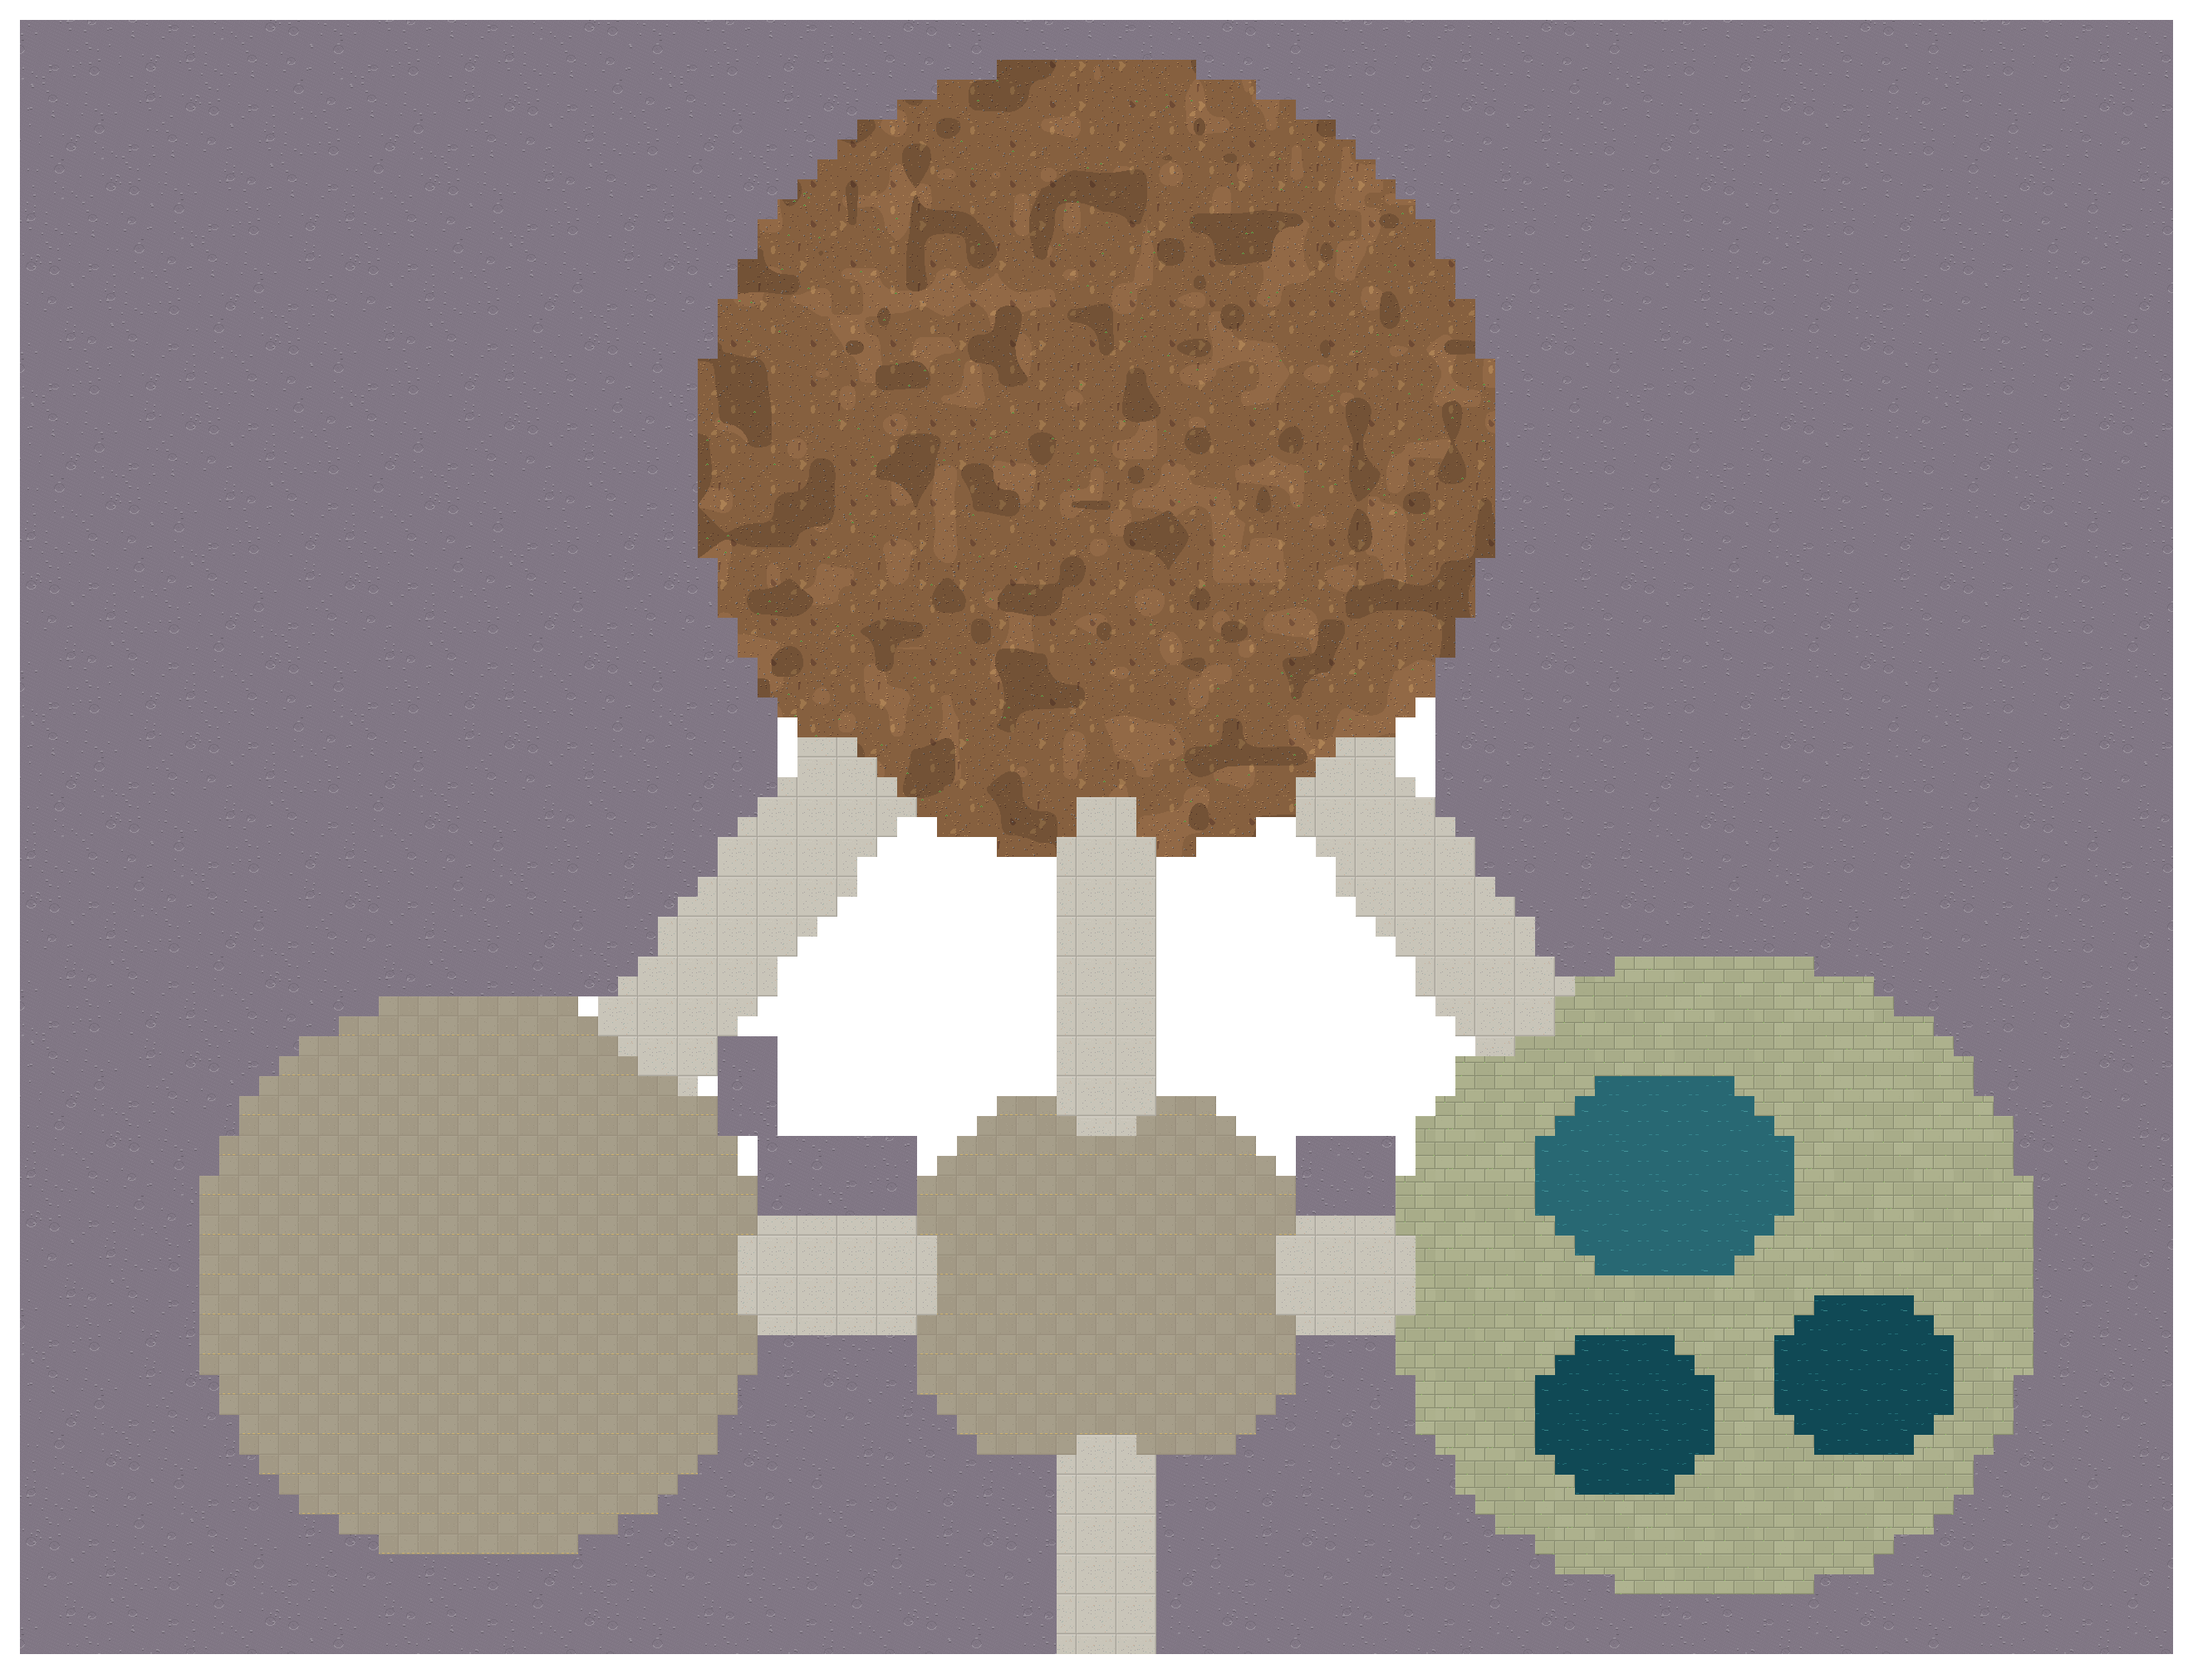
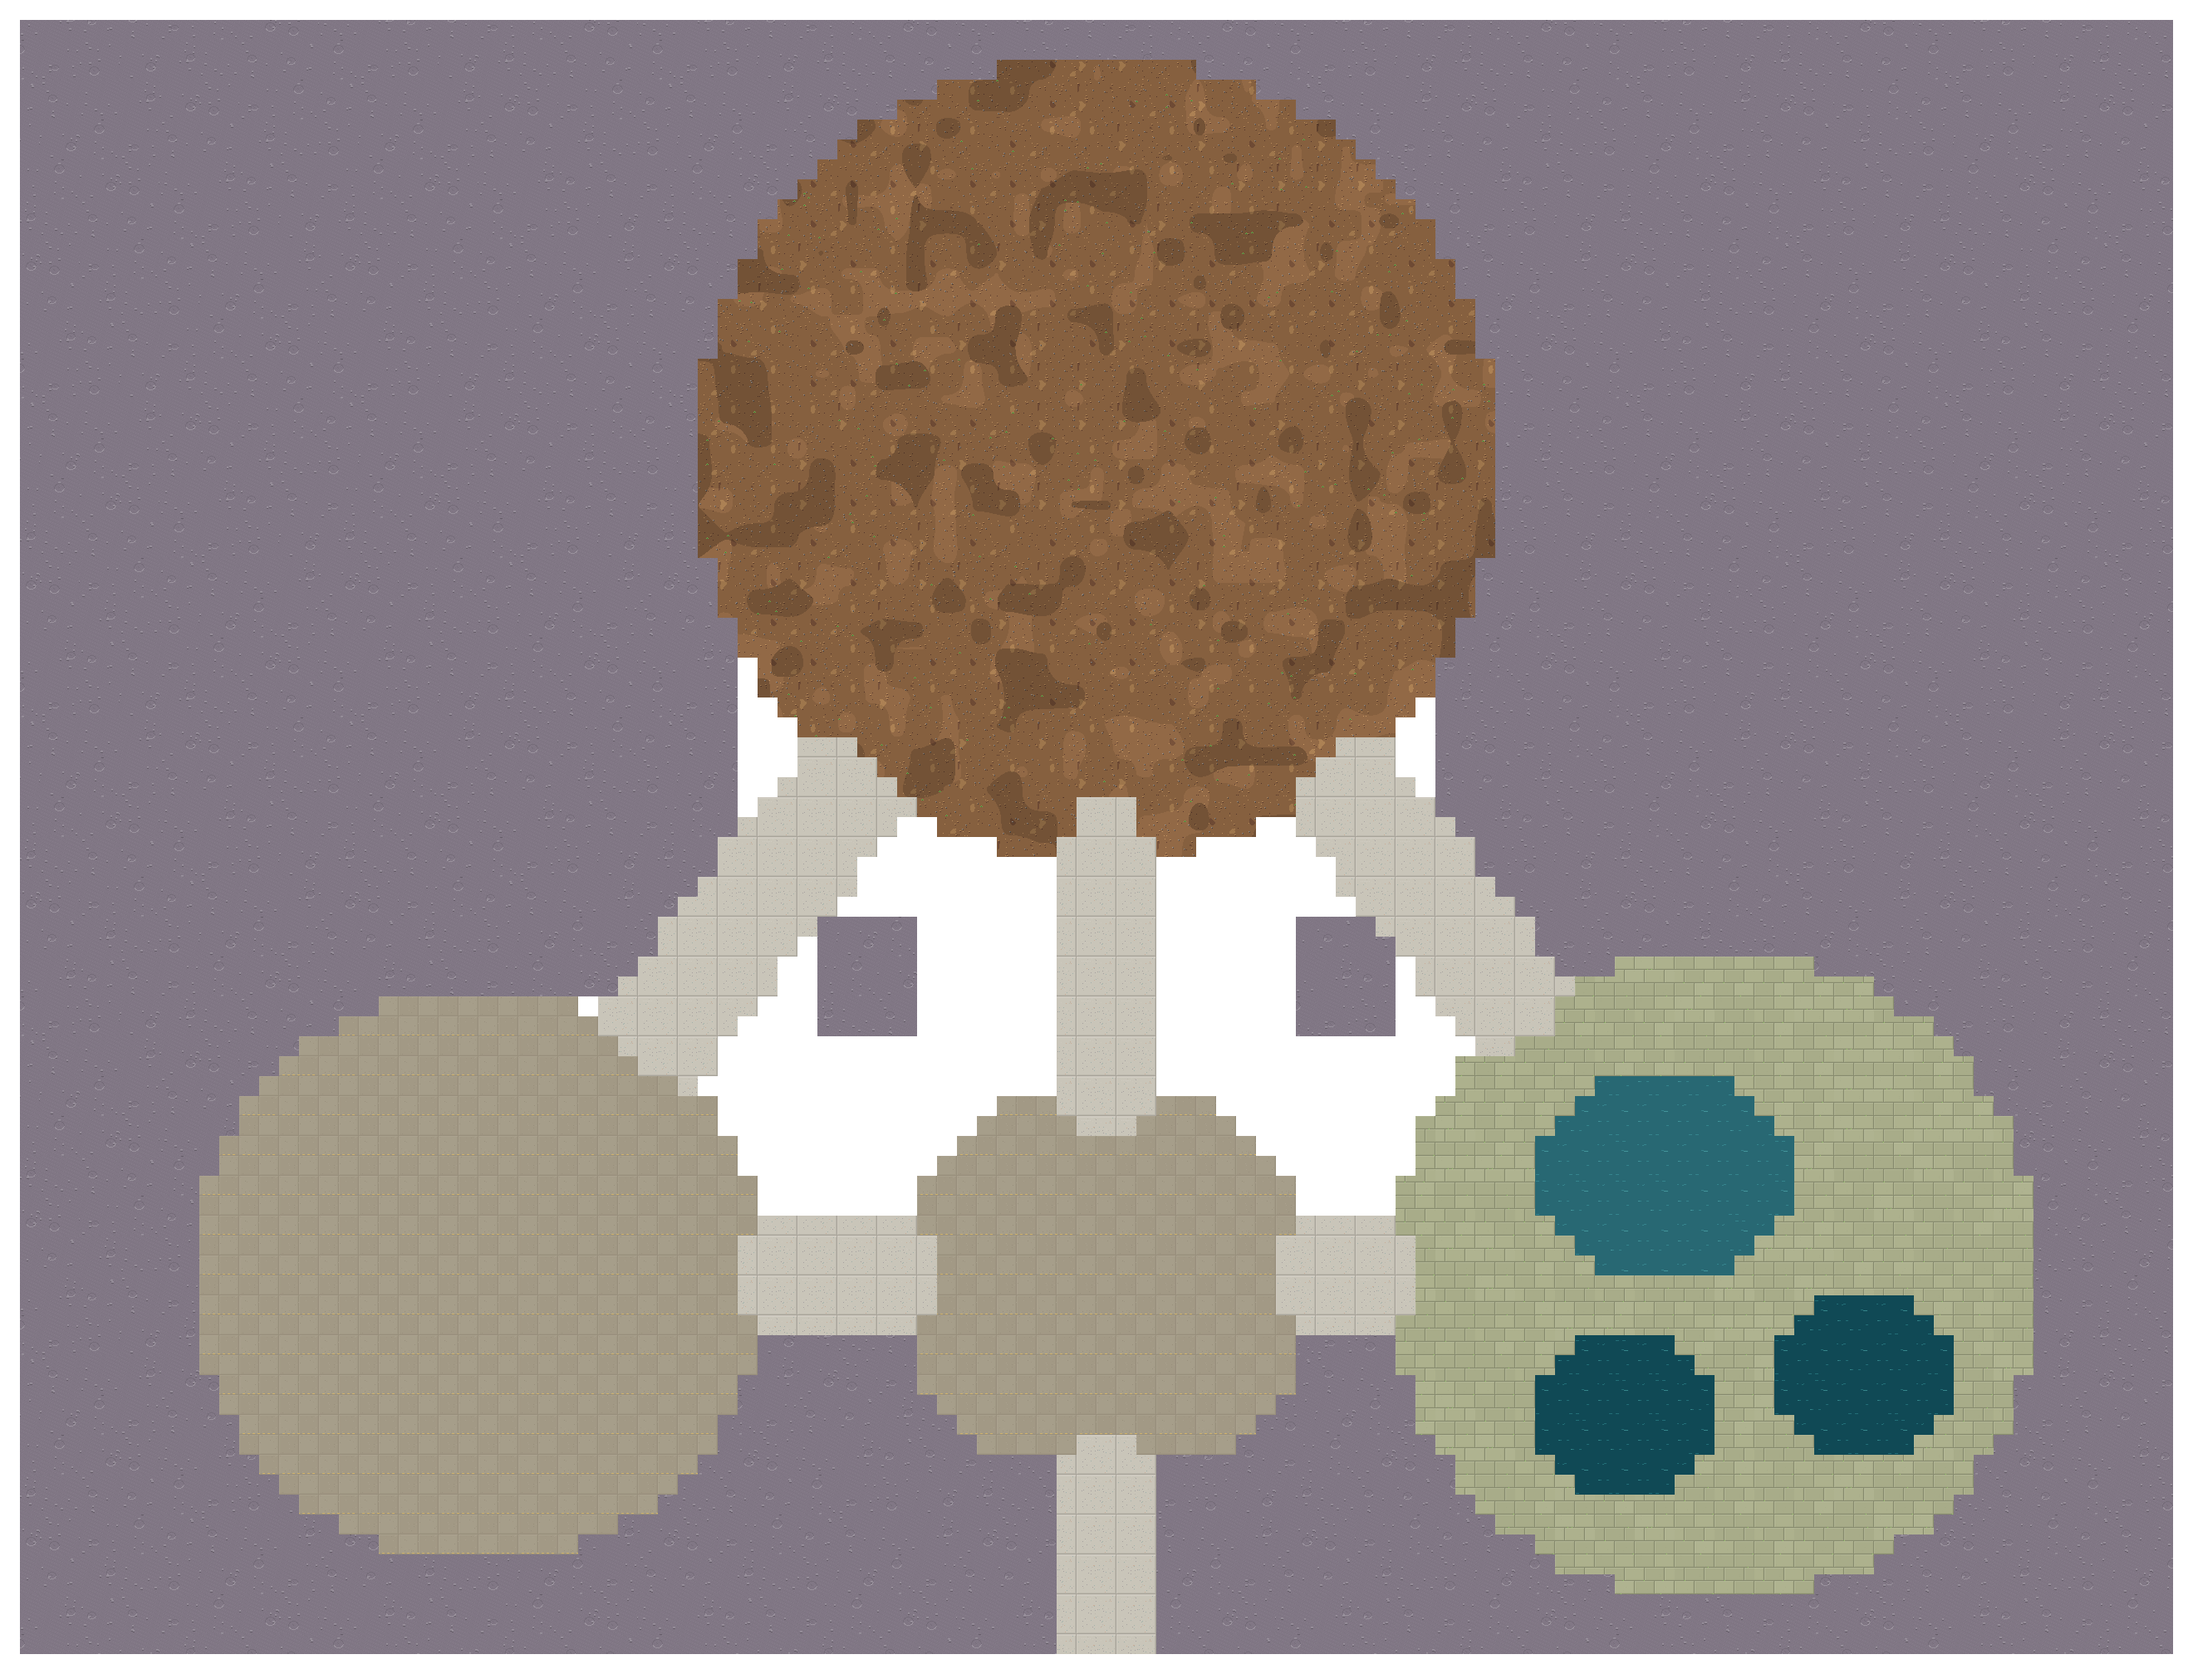
Houses: no gaps at the lower outer corners, a window well on each outer side
Zachary: "gaps in the building, im not opposed to gaps so we can have windows in the house,
but if we do ahve gaps put them where the green marker is, and remove gaps where red
marker is".

- The roof blocks behind both houses now run right down to the porch and to the workshop
  and hot springs links, so the little moon gaps at the houses' lower outer corners are
  filled.
- Each house has a 3 x 4 light well cut into its outer side (x 42-44 and 66-68, y 47-50),
  open to the moon with the glass wall at its north edge, as its windows.

Not run in Godot.

Claude-Session: https://claude.ai/code/session_013NFuzCtsXhGx4vnyseTSue

diff --git a/tools/spaceport.py b/tools/spaceport.py
@@ -162,13 +162,20 @@ def build(g):
     bake_floor.HOUSE_FRONTS['agri'] = [
         {"roof": (57, 43, 67, 57), "cuts": (2, 2, 0, 3), "front": (57, 43, 63, 59), "roof_art": 'hotel/cap_mix', "wall_art": 'east/wall'},
         {"roof": (43, 43, 53, 57), "cuts": (2, 2, 3, 0), "front": (47, 43, 53, 59), "roof_art": 'hotel/cap_mix', "wall_art": 'east/wall'}]
-    # The blocks behind them, between the glass links, stay roof rather than bare moon.
-    house = {(x, y) for x in list(range(57, 73)) + list(range(38, 54)) for y in range(34, 58)}
+    # The blocks behind them, between the glass links, stay roof rather than bare moon, right down to the porch and
+    # the workshop and hot springs links (Zachary, 23 Nov: no gaps at the houses' lower outer corners).
+    house = {(x, y) for x in list(range(57, 73)) + list(range(36, 54)) for y in range(34, 62)}
     # Outside the domes and links is bare moon, with a two-tile station wall round everything inside.
     inside = {(x, y) for y in range(84) for x in range(110) if F[y][x] not in '#Q~'}
     for y in range(1, 83):
         for x in range(1, 109):
             if F[y][x] == '#' and (x, y) not in house and not any((x + dx, y + dy) in inside for dx in range(-2, 3) for dy in range(-2, 3)):
+                F[y][x] = 'Q'
+    # A light well in each house's outer side, so the house has windows (Zachary: "if we do have gaps put them where
+    # the green marker is"): open to the moon, with the glass wall at its north edge.
+    for wx0 in (42, 66):
+        for y in range(47, 51):
+            for x in range(wx0, wx0 + 3):
                 F[y][x] = 'Q'
     a.t.zones += [['Agri dome', 36, 4, 74, 42], ['Front porch', porch[0], porch[1], porch[2], porch[3]], ['Your workshop', 11, 51, 37, 77],
                   ['Hot springs & fish ponds', 71, 49, 101, 79], ['Glass link', 1, 1, 108, 82]]
